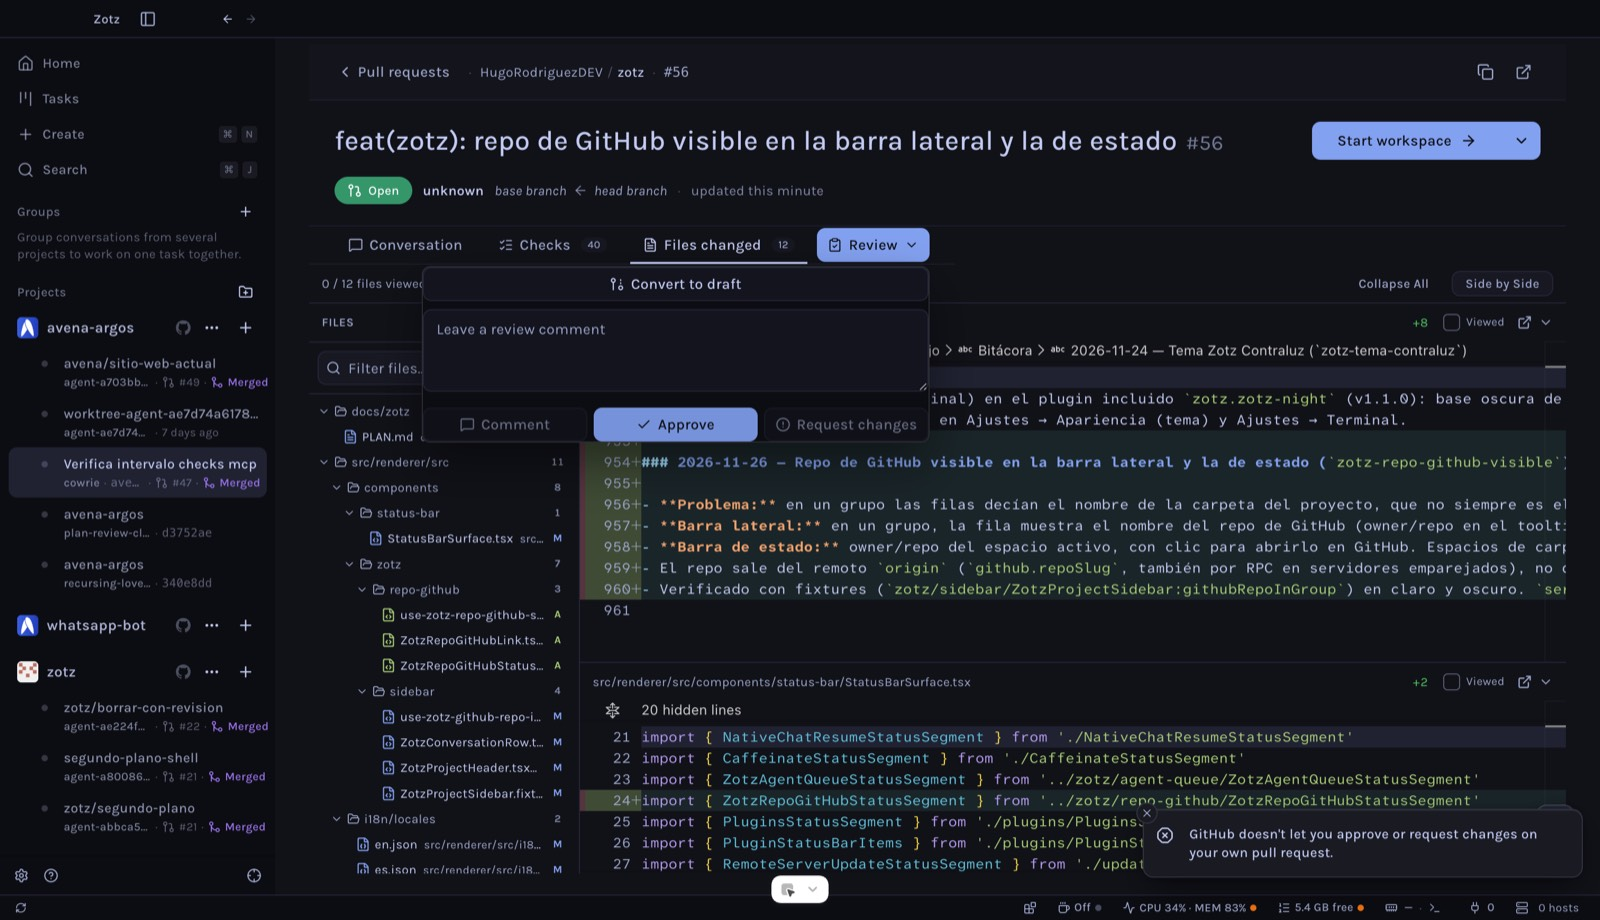
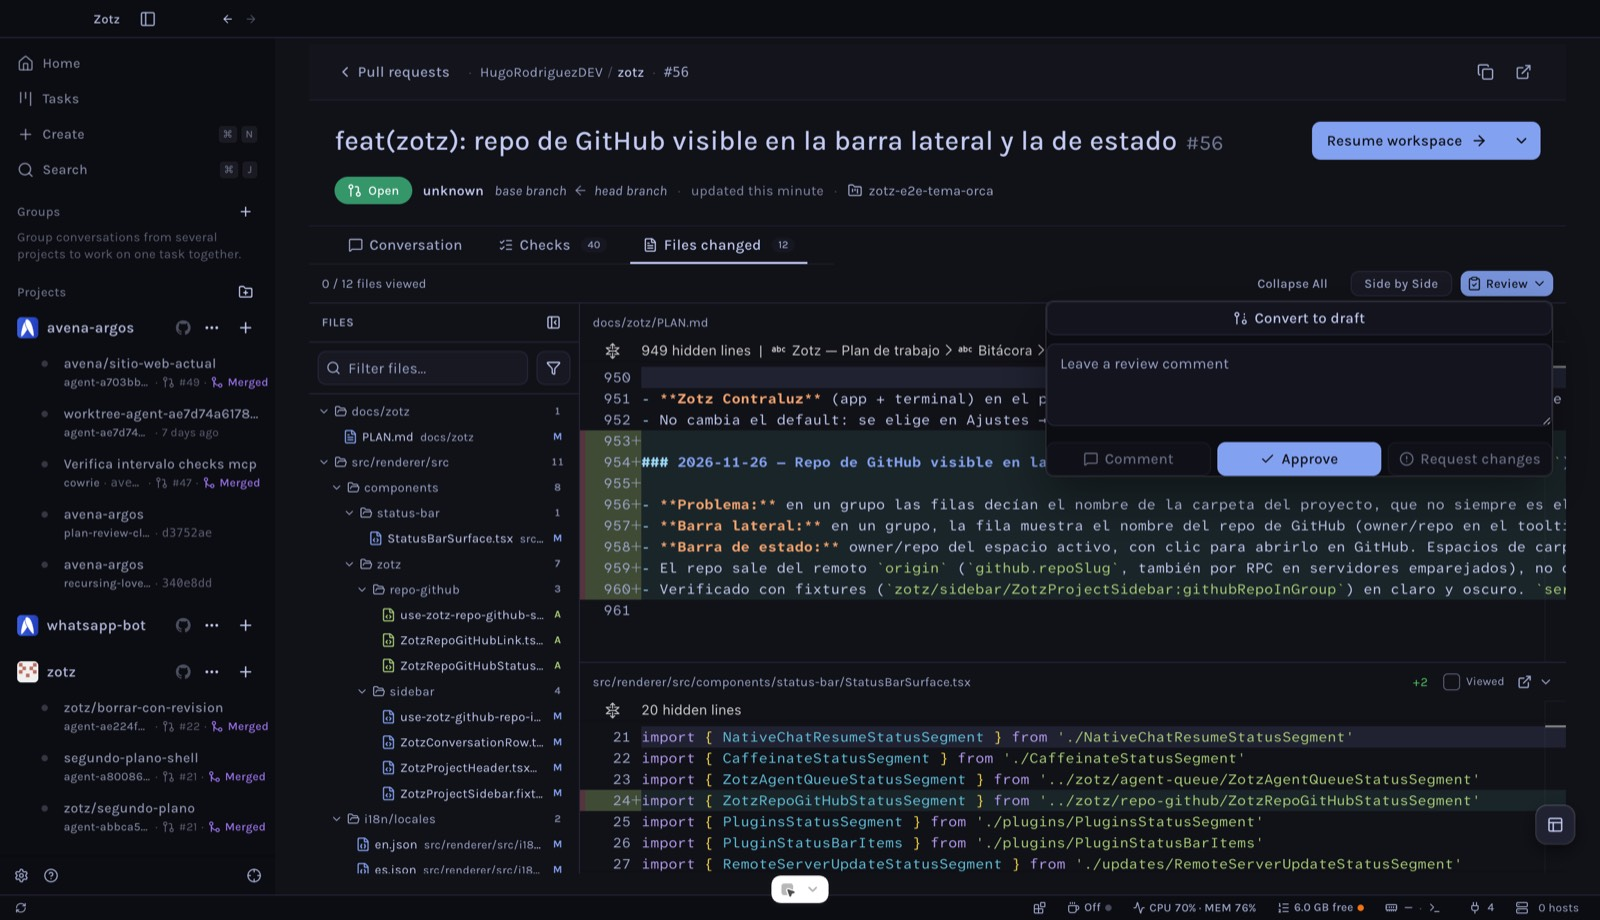
fix(zotz): el botón Review va en la barra de Files changed
Junto a "Side by Side", como el "Review changes" de GitHub, en lugar de la
fila de pestañas.

diff --git a/src/renderer/src/components/pull-request-page/page/tabs-shell.tsx b/src/renderer/src/components/pull-request-page/page/tabs-shell.tsx
@@ -119,18 +119,6 @@ export function PullRequestPageTabs({
             </span>
           )}
         </TabsTrigger>
-        <ZotzPrReviewButton
-          pr={{
-            repoPath,
-            repoId: effectiveRepoId,
-            sourceContext,
-            prNumber: workItem.number,
-            prRepo: resolvePullRequestRepo(workItem, projectOrigin)
-          }}
-          state={localState}
-          onStateChange={setLocalState}
-          onMutated={invalidateCurrentDetailsCache}
-        />
       </TabsList>
 
       <div className="min-h-0 flex-1 overflow-y-auto scrollbar-sleek">
@@ -234,6 +222,20 @@ export function PullRequestPageTabs({
               pendingViewedPaths={pendingViewedPaths}
               onCommentAdded={appendOptimisticComment}
               onViewedChange={handlePRFileViewedChange}
+              reviewAction={
+                <ZotzPrReviewButton
+                  pr={{
+                    repoPath,
+                    repoId: effectiveRepoId,
+                    sourceContext,
+                    prNumber: workItem.number,
+                    prRepo: resolvePullRequestRepo(workItem, projectOrigin)
+                  }}
+                  state={localState}
+                  onStateChange={setLocalState}
+                  onMutated={invalidateCurrentDetailsCache}
+                />
+              }
             />
           )}
         </TabsContent>

diff --git a/src/renderer/src/components/pull-request-page/files/toolbar.tsx b/src/renderer/src/components/pull-request-page/files/toolbar.tsx
@@ -13,7 +13,8 @@ export function PRFilesDiffToolbar({
   sideBySide,
   onShowFileTree,
   onToggleAllCollapsed,
-  onToggleSideBySide
+  onToggleSideBySide,
+  reviewAction
 }: {
   files: GitHubPRFile[]
   fileTreeCollapsed: boolean
@@ -22,6 +23,7 @@ export function PRFilesDiffToolbar({
   onShowFileTree: () => void
   onToggleAllCollapsed: () => void
   onToggleSideBySide: () => void
+  reviewAction?: React.ReactNode
 }): React.JSX.Element {
   const t = useTranslate()
   return (
@@ -76,6 +78,7 @@ export function PRFilesDiffToolbar({
             ? t('auto.components.PullRequestPage.e5f4a24f78', 'Inline')
             : t('auto.components.PullRequestPage.1378d79e83', 'Side by Side')}
         </Button>
+        {reviewAction}
       </div>
     </div>
   )

diff --git a/src/renderer/src/components/pull-request-page/files/combined-diff-viewer.tsx b/src/renderer/src/components/pull-request-page/files/combined-diff-viewer.tsx
@@ -49,7 +49,8 @@ export function PRFilesCombinedDiffViewer({
   baseSha,
   pendingViewedPaths,
   onCommentAdded,
-  onViewedChange
+  onViewedChange,
+  reviewAction
 }: PRFilesCombinedDiffViewerProps): React.JSX.Element {
   const t = useTranslate()
   const isDark = useDocumentDarkTheme()
@@ -320,6 +321,7 @@ export function PRFilesCombinedDiffViewer({
         onShowFileTree={() => setFileTreeCollapsed(false)}
         onToggleAllCollapsed={() => setAllSectionsCollapsed(!allSectionsCollapsed)}
         onToggleSideBySide={() => setSideBySide((prev) => !prev)}
+        reviewAction={reviewAction}
       />
       <div className="flex min-h-0 flex-1">
         <CombinedDiffFileTree

diff --git a/src/renderer/src/components/zotz/source-control/ZotzPrReviewButton.tsx b/src/renderer/src/components/zotz/source-control/ZotzPrReviewButton.tsx
@@ -27,7 +27,7 @@ export function ZotzPrReviewButton({
   return (
     <Popover open={open} onOpenChange={setOpen}>
       <PopoverTrigger asChild>
-        <Button type="button" size="sm" className="my-1.5 ml-auto">
+        <Button type="button" size="xs">
           <ClipboardCheck className="size-3.5" />
           {t('zotz.prReview.open', 'Review')}
           <ChevronDown className="size-3.5" />

diff --git a/src/renderer/src/components/github/pr-file-diff-mapping.ts b/src/renderer/src/components/github/pr-file-diff-mapping.ts
@@ -119,4 +119,6 @@ export type PRFilesCombinedDiffViewerProps = {
   pendingViewedPaths: ReadonlySet<string>
   onCommentAdded: (comment: PRComment) => void
   onViewedChange: (path: string, viewed: boolean) => Promise<boolean>
+  /** Zotz: the review button, shown in the files toolbar like GitHub's "Review changes". */
+  reviewAction?: React.ReactNode
 }

diff --git a/docs/zotz/PLAN.md b/docs/zotz/PLAN.md
@@ -953,7 +953,7 @@ Sección B de la spec de monitor y remotos.
 
 ### 2026-11-26 — Revisar, aprobar y pasar a draft desde Zotz (`zotz-pr-revision`)
 
-- **Página del PR:** botón **Review** junto a las pestañas (visible también en Files changed), como el "Review changes" de GitHub: comentario y Comentar / Aprobar / Pedir cambios, más **Pasar a draft** o **Listo para revisión**. Merge y cerrar ya existían en upstream.
+- **Página del PR:** botón **Review** en la barra de Files changed, junto a "Side by Side", como el "Review changes" de GitHub: comentario y Comentar / Aprobar / Pedir cambios, más **Pasar a draft** o **Listo para revisión**. Merge y cerrar ya existían en upstream.
 - **Panel del PR (lateral):** la misma caja de revisión y **Pasar a draft** para PRs abiertos; "Listo para revisión" de los drafts ya lo traía upstream.
 - **Backend:** `gh pr review` en `src/main/zotz/github/zotz-pr-review.ts`; IPC `gh:submitPRReview` y `gh:markPRDraft` (upstream solo tenía draft por RPC) en `zotz-pr-review-ipc.ts`; RPC `github.submitPRReview` para servidores emparejados y el cliente web.
 - GitHub no deja aprobar ni pedir cambios en tu propio PR; Zotz lo dice en vez de mostrar el error de GraphQL.
